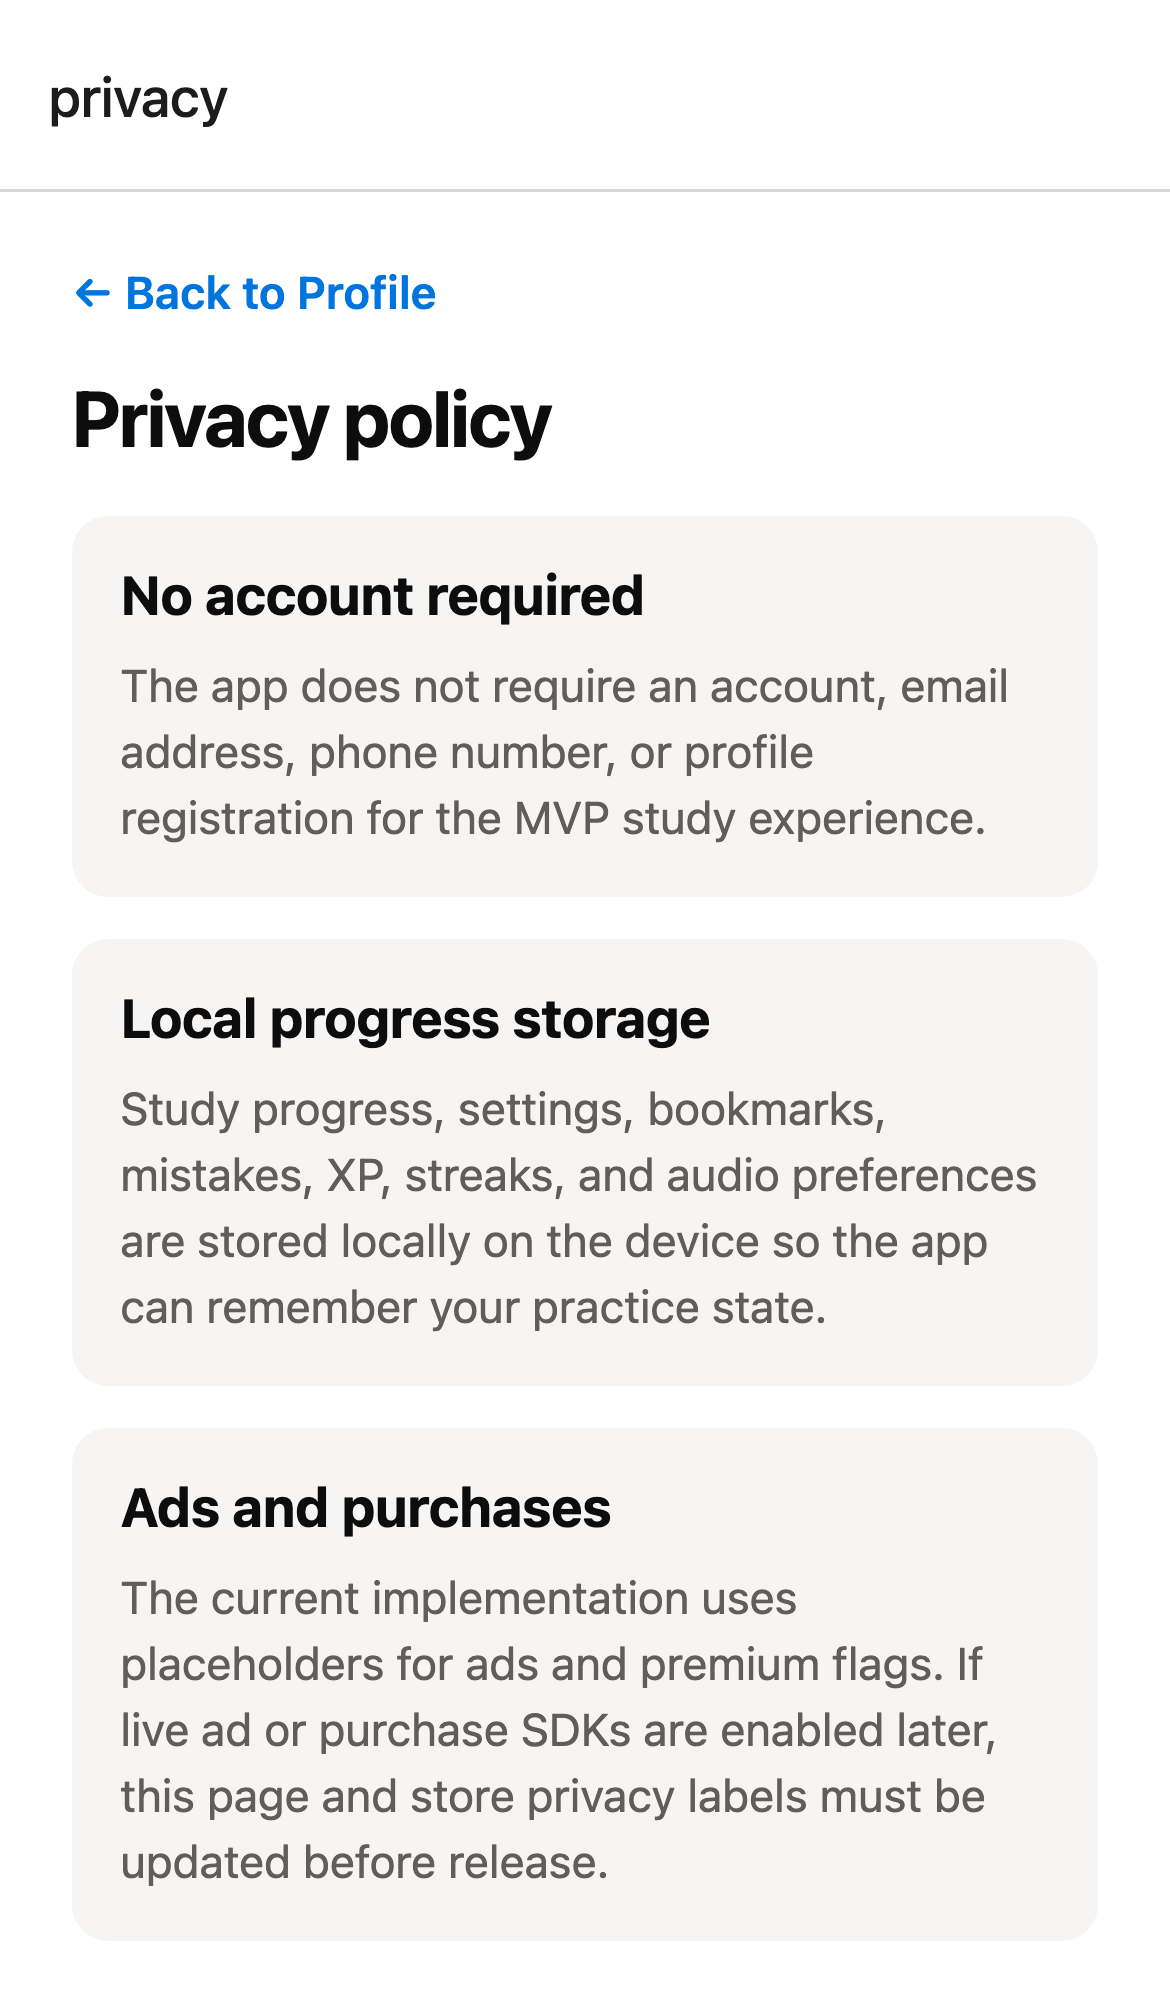
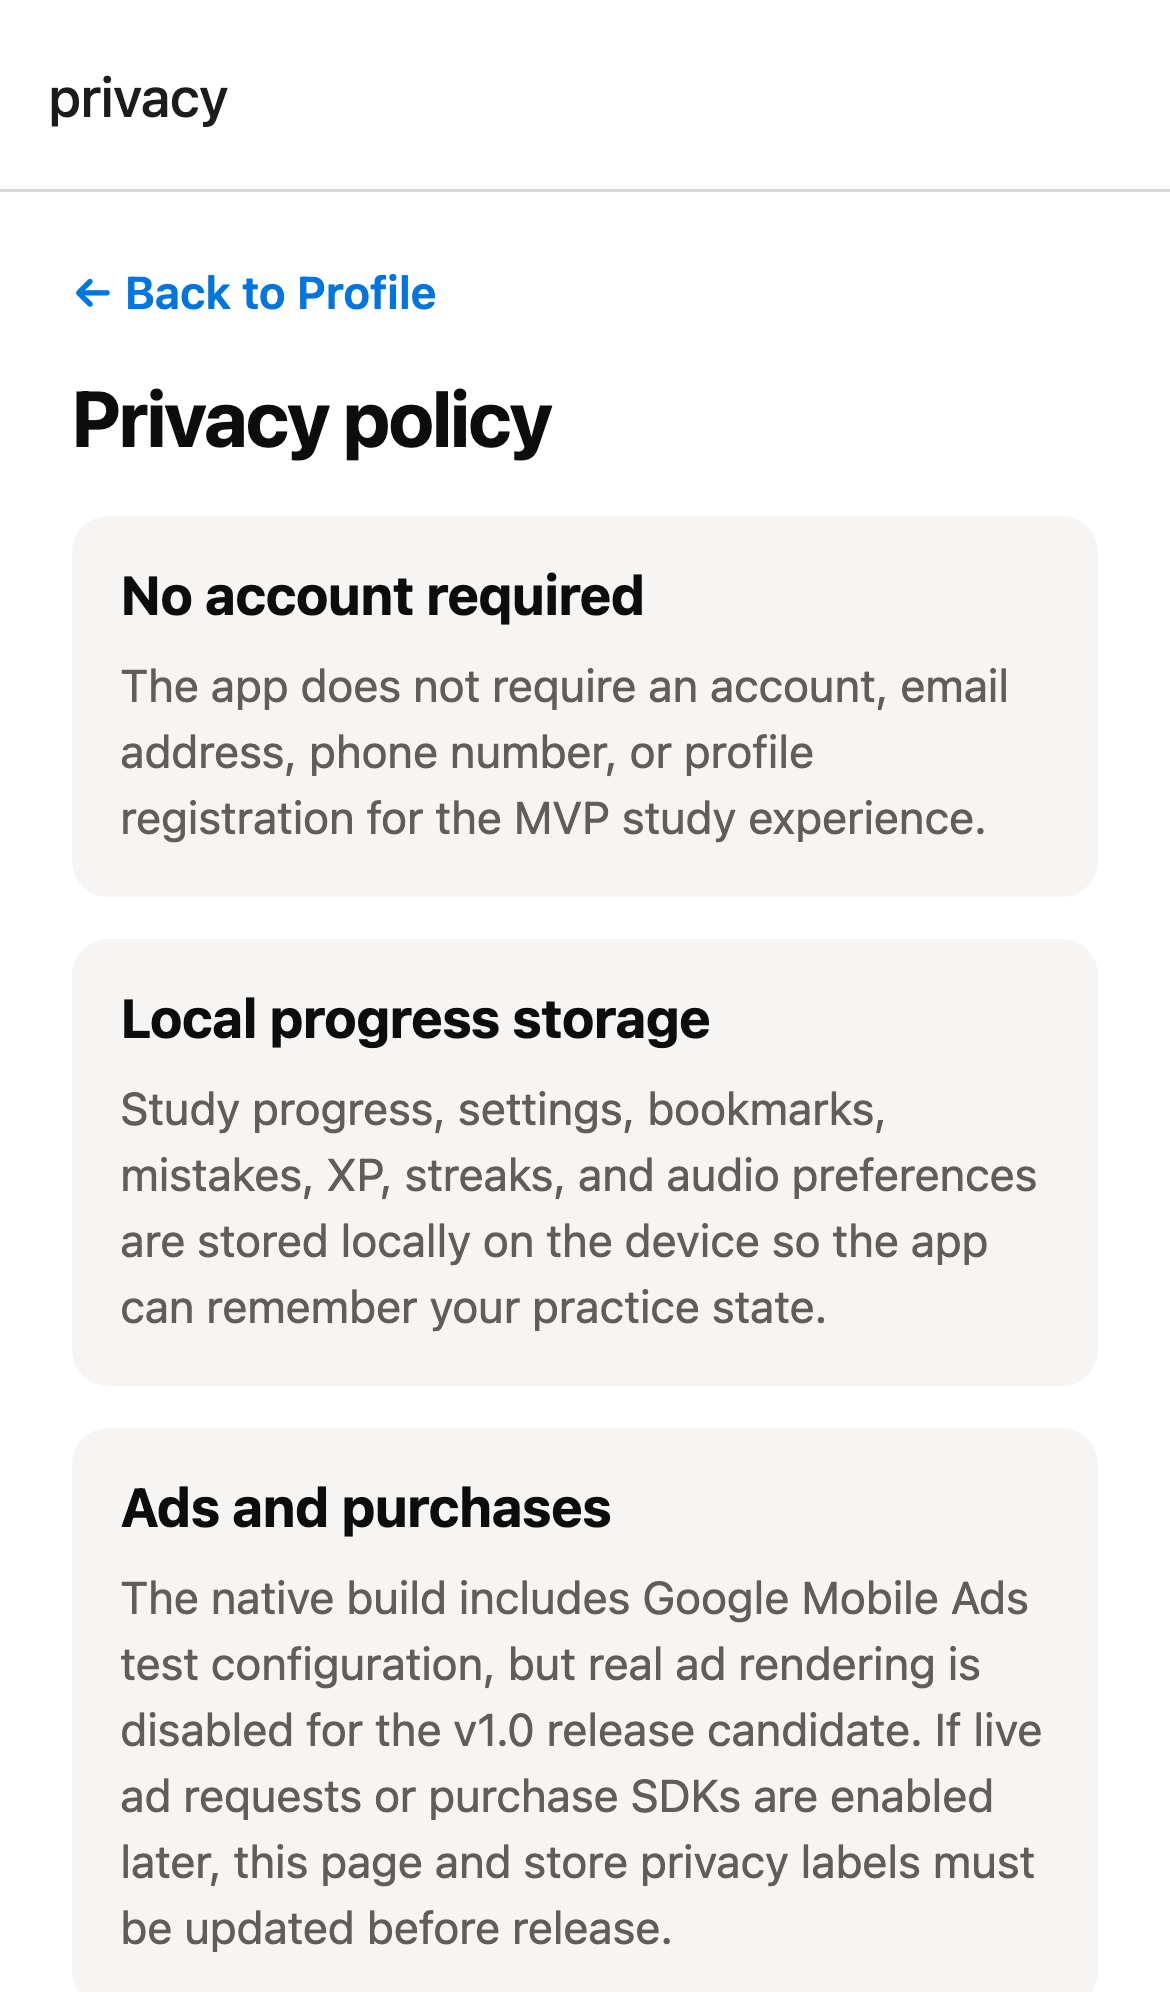
feat: add launch ad review evidence

Changed region(s): [[0.0923, 0.7781, 0.8923, 0.996]]

diff --git a/components/monetization/LaunchPopupAd.tsx b/components/monetization/LaunchPopupAd.tsx
@@ -1,0 +1,114 @@
+import { useEffect, useState } from 'react';
+import { Modal, Pressable, StyleSheet, Text, View } from 'react-native';
+
+import { getAdUnit, shouldShowLaunchPopupAd } from '../../lib/monetization/ads';
+import { FREE_ENTITLEMENTS } from '../../lib/monetization/premium';
+import { colors, radius, space, typography } from '../../lib/theme';
+import type { PremiumEntitlements } from '../../types/monetization';
+
+let launchPopupShownThisRuntime = false;
+
+export function LaunchPopupAd({
+  entitlements = FREE_ENTITLEMENTS,
+}: {
+  entitlements?: Pick<PremiumEntitlements, 'adsDisabled'>;
+}) {
+  const [visible, setVisible] = useState(false);
+
+  useEffect(() => {
+    if (
+      !shouldShowLaunchPopupAd({
+        alreadyShownThisLaunch: launchPopupShownThisRuntime,
+        entitlements,
+      })
+    ) {
+      return;
+    }
+
+    launchPopupShownThisRuntime = true;
+    setVisible(true);
+  }, [entitlements]);
+
+  const unit = getAdUnit('app_open_launch');
+
+  return (
+    <Modal
+      animationType="fade"
+      transparent
+      visible={visible}
+      onRequestClose={() => setVisible(false)}
+    >
+      <View style={styles.backdrop}>
+        <View style={styles.card}>
+          <Text style={styles.eyebrow}>Google AdMob</Text>
+          <Text style={styles.title}>Launch sponsor</Text>
+          <Text style={styles.body}>
+            {unit?.testOnly
+              ? 'App-open test ad preview shown once per app launch.'
+              : 'Sponsored launch placement.'}
+          </Text>
+          <Pressable
+            accessibilityLabel="Close launch sponsor ad"
+            accessibilityRole="button"
+            onPress={() => setVisible(false)}
+            style={styles.closeButton}
+          >
+            <Text style={styles.closeText}>Continue studying</Text>
+          </Pressable>
+        </View>
+      </View>
+    </Modal>
+  );
+}
+
+const styles = StyleSheet.create({
+  backdrop: {
+    alignItems: 'center',
+    backgroundColor: colors.textDisclaimer,
+    flex: 1,
+    justifyContent: 'center',
+    padding: space[3],
+  },
+  card: {
+    backgroundColor: colors.surface,
+    borderColor: colors.border,
+    borderRadius: radius.large,
+    borderWidth: StyleSheet.hairlineWidth,
+    gap: space[1],
+    maxWidth: 360,
+    padding: space[3],
+    width: '100%',
+  },
+  eyebrow: {
+    color: colors.badgeBlueText,
+    fontSize: typography.badge.fontSize,
+    fontWeight: typography.badge.fontWeight,
+    letterSpacing: typography.badge.letterSpacing,
+    textTransform: 'uppercase',
+  },
+  title: {
+    color: colors.text,
+    fontSize: typography.cardTitle.fontSize,
+    fontWeight: typography.cardTitle.fontWeight,
+    letterSpacing: typography.cardTitle.letterSpacing,
+    lineHeight: typography.cardTitle.lineHeight,
+  },
+  body: {
+    color: colors.textSecondary,
+    fontSize: typography.body.fontSize,
+    lineHeight: typography.body.lineHeight,
+  },
+  closeButton: {
+    alignItems: 'center',
+    backgroundColor: colors.accent,
+    borderRadius: radius.micro,
+    marginTop: space[1],
+    paddingHorizontal: space[2],
+    paddingVertical: space[1],
+  },
+  closeText: {
+    color: colors.surface,
+    fontSize: typography.navButton.fontSize,
+    fontWeight: typography.navButton.fontWeight,
+  },
+});

diff --git a/components/monetization/LaunchPopupAd.native.tsx b/components/monetization/LaunchPopupAd.native.tsx
@@ -1,0 +1,42 @@
+import { useEffect } from 'react';
+import { Platform } from 'react-native';
+import { AdEventType, AppOpenAd } from 'react-native-google-mobile-ads';
+
+import { getPlatformAdUnitId, shouldShowLaunchPopupAd } from '../../lib/monetization/ads';
+import { FREE_ENTITLEMENTS } from '../../lib/monetization/premium';
+import type { PremiumEntitlements } from '../../types/monetization';
+
+let launchPopupShownThisRuntime = false;
+
+export function LaunchPopupAd({
+  entitlements = FREE_ENTITLEMENTS,
+}: {
+  entitlements?: Pick<PremiumEntitlements, 'adsDisabled'>;
+}) {
+  useEffect(() => {
+    if (
+      !shouldShowLaunchPopupAd({
+        alreadyShownThisLaunch: launchPopupShownThisRuntime,
+        entitlements,
+      })
+    ) {
+      return undefined;
+    }
+
+    const unitId = getPlatformAdUnitId('app_open_launch', Platform.OS);
+    if (!unitId) return undefined;
+
+    launchPopupShownThisRuntime = true;
+    const appOpenAd = AppOpenAd.createForAdRequest(unitId, {
+      requestNonPersonalizedAdsOnly: true,
+    });
+    const unsubscribe = appOpenAd.addAdEventListener(AdEventType.LOADED, () => {
+      appOpenAd.show();
+    });
+
+    appOpenAd.load();
+    return unsubscribe;
+  }, [entitlements]);
+
+  return null;
+}

diff --git a/scripts/monetization.test.js b/scripts/monetization.test.js
@@ -34,6 +34,8 @@ test('monetization keeps real ads fail-closed for v1.0 while preserving test-uni
   assert.equal(shouldShowAd('exam_screen', { adsDisabled: false }), false);
   assert.match(getPlatformAdUnitId('home_banner', 'android'), /^ca-app-pub-/);
   assert.match(getPlatformAdUnitId('home_banner', 'ios'), /^ca-app-pub-/);
+  assert.match(getPlatformAdUnitId('app_open_launch', 'android'), /9257395921$/);
+  assert.match(getPlatformAdUnitId('app_open_launch', 'ios'), /5575463023$/);
 });
 
 test('app config registers the Google Mobile Ads Expo plugin with test app ids', () => {
@@ -46,6 +48,26 @@ test('app config registers the Google Mobile Ads Expo plugin with test app ids',
   assert.match(plugin[1].androidAppId, /^ca-app-pub-/);
   assert.match(plugin[1].iosAppId, /^ca-app-pub-/);
   assert.equal(plugin[1].delayAppMeasurementInit, true);
+});
+
+test('launch popup ad remains fail-closed for v1.0 and respects launch cap/premium', () => {
+  const { shouldShowLaunchPopupAd } = loadTs('lib/monetization/ads.ts');
+
+  assert.equal(
+    shouldShowLaunchPopupAd({
+      alreadyShownThisLaunch: false,
+      entitlements: { adsDisabled: false },
+    }),
+    false,
+  );
+  assert.equal(
+    shouldShowLaunchPopupAd({ alreadyShownThisLaunch: true, entitlements: { adsDisabled: false } }),
+    false,
+  );
+  assert.equal(
+    shouldShowLaunchPopupAd({ alreadyShownThisLaunch: false, entitlements: { adsDisabled: true } }),
+    false,
+  );
 });
 
 test('exam screen does not import ad components', () => {

diff --git a/lib/monetization/ads.ts b/lib/monetization/ads.ts
@@ -35,6 +35,13 @@ export const TEST_AD_UNITS: AdUnitConfig[] = [
     enabled: true,
     testOnly: true,
   },
+  {
+    placement: 'app_open_launch',
+    iosUnitId: 'ca-app-pub-3940256099942544/5575463023',
+    androidUnitId: 'ca-app-pub-3940256099942544/9257395921',
+    enabled: true,
+    testOnly: true,
+  },
 ];
 
 export function getAdUnit(placement: AdPlacement): AdUnitConfig | undefined {
@@ -50,6 +57,16 @@ export function shouldShowAd(
   if (entitlements.adsDisabled) return false;
   const unit = getAdUnit(placement);
   return Boolean(unit?.enabled);
+}
+
+export function shouldShowLaunchPopupAd({
+  alreadyShownThisLaunch,
+  entitlements,
+}: {
+  alreadyShownThisLaunch: boolean;
+  entitlements: Pick<PremiumEntitlements, 'adsDisabled'>;
+}): boolean {
+  return !alreadyShownThisLaunch && shouldShowAd('app_open_launch', entitlements);
 }
 
 export function getPlatformAdUnitId(
@@ -72,6 +89,7 @@ export const adsConfig = {
     'chapter_list_banner',
     'quiz_completed_interstitial',
     'results_native',
+    'app_open_launch',
   ],
   blockedPlacements: ['exam_screen'],
 };

diff --git a/scripts/ui-effects.test.js b/scripts/ui-effects.test.js
@@ -51,3 +51,16 @@ test('home screen surfaces the 10000-learner feedback loop and review action', (
   assert.match(source, /Review saved questions/);
   assert.match(source, /href="\/mistakes"/);
 });
+
+test('launch popup ad has native app-open implementation and safe web preview', () => {
+  const layoutSource = read('app/_layout.tsx');
+  const webSource = read('components/monetization/LaunchPopupAd.tsx');
+  const nativeSource = read('components/monetization/LaunchPopupAd.native.tsx');
+
+  assert.match(layoutSource, /<LaunchPopupAd \/>/);
+  assert.match(webSource, /launchPopupShownThisRuntime/);
+  assert.match(webSource, /Modal/);
+  assert.doesNotMatch(webSource, /react-native-google-mobile-ads/);
+  assert.match(nativeSource, /AppOpenAd/);
+  assert.match(nativeSource, /launchPopupShownThisRuntime/);
+});

diff --git a/app/_layout.tsx b/app/_layout.tsx
@@ -1,6 +1,8 @@
 import { Stack } from 'expo-router';
 import { StatusBar } from 'expo-status-bar';
 
+import { LaunchPopupAd } from '../components/monetization/LaunchPopupAd';
+
 export default function RootLayout() {
   return (
     <>
@@ -8,6 +10,7 @@ export default function RootLayout() {
         <Stack.Screen name="index" options={{ headerShown: false }} />
         <Stack.Screen name="(tabs)" options={{ headerShown: false }} />
       </Stack>
+      <LaunchPopupAd />
       <StatusBar style="auto" />
     </>
   );

diff --git a/types/monetization.ts b/types/monetization.ts
@@ -3,7 +3,8 @@ export type AdPlacement =
   | 'chapter_list_banner'
   | 'quiz_completed_interstitial'
   | 'results_native'
-  | 'rewarded_extra_exam';
+  | 'rewarded_extra_exam'
+  | 'app_open_launch';
 
 export interface AdUnitConfig {
   placement: AdPlacement;

diff --git a/docs/parallel-sessions/reviewer.md b/docs/parallel-sessions/reviewer.md
@@ -1,0 +1,29 @@
+# Reviewer lane contract
+
+## Purpose
+
+Reviewer lanes test the latest team output as a user or verifier. They do not
+count docs-only activity as accepted product work.
+
+## Workspace contract
+
+- Read `GOAL.md`, the relevant design or architecture doc, and
+  `docs/parallel-sessions/TEAM_PLAN.md` before reviewing.
+- Do not edit product source unless the manager assigns a tiny verification fix.
+- Do not overwrite another pane's source changes; queue defects instead.
+- Use `codex-tasks/validator.txt`, `codex-tasks/open.txt`, or the relevant lane
+  queue for every finding.
+- If host, branch, lease, prompt, or dirty-worktree state is ambiguous, stop and
+  write a blocker instead of guessing.
+
+## One-cycle output
+
+```text
+Lane:
+Artifact reviewed:
+Checks run:
+Workspace contract: pass/fail/blocked
+Findings queued:
+Evidence:
+Next manager action:
+```